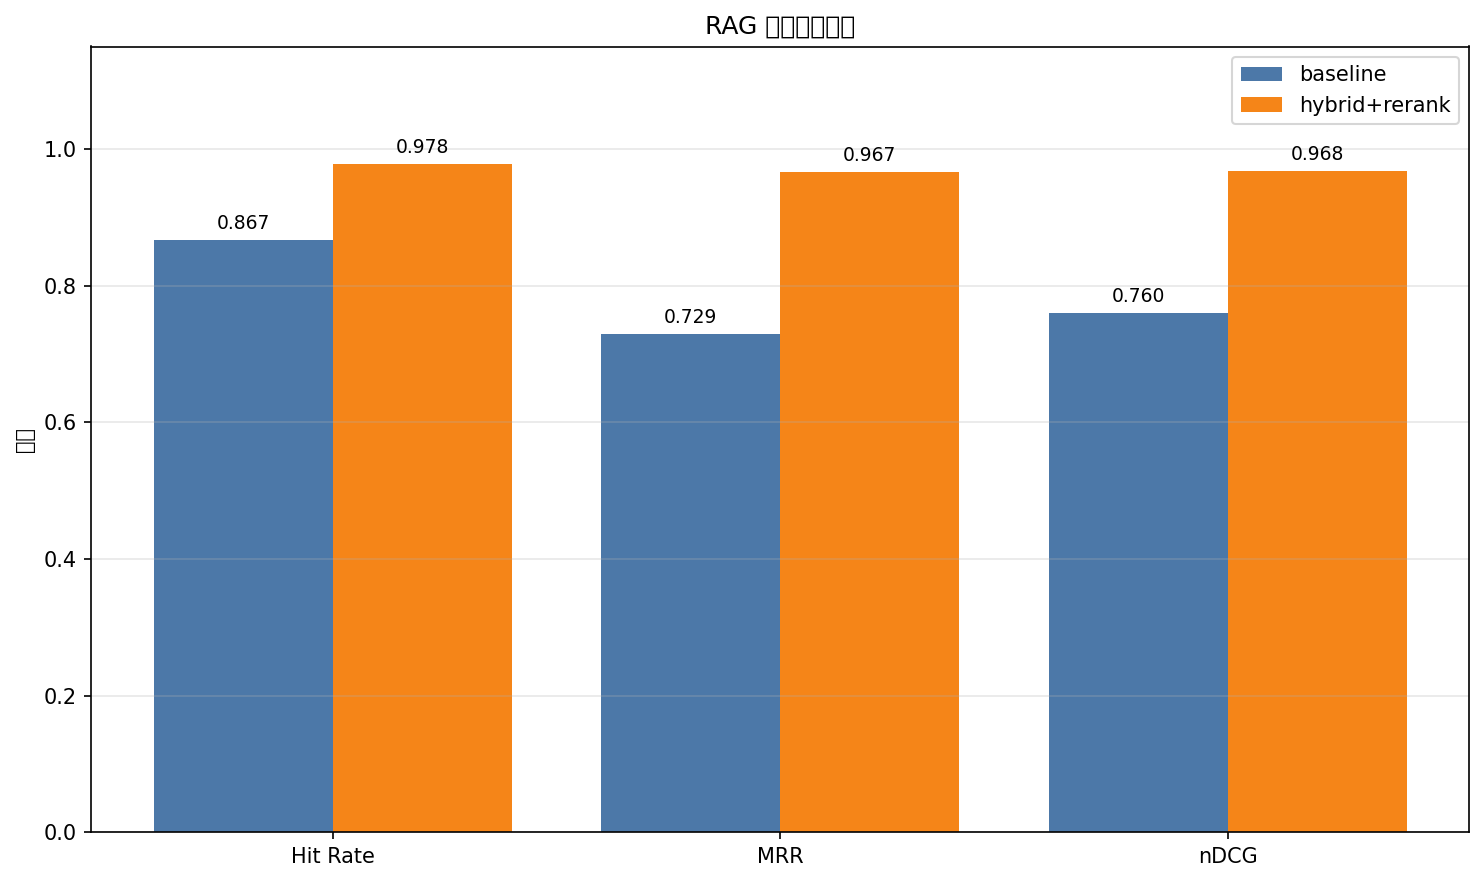
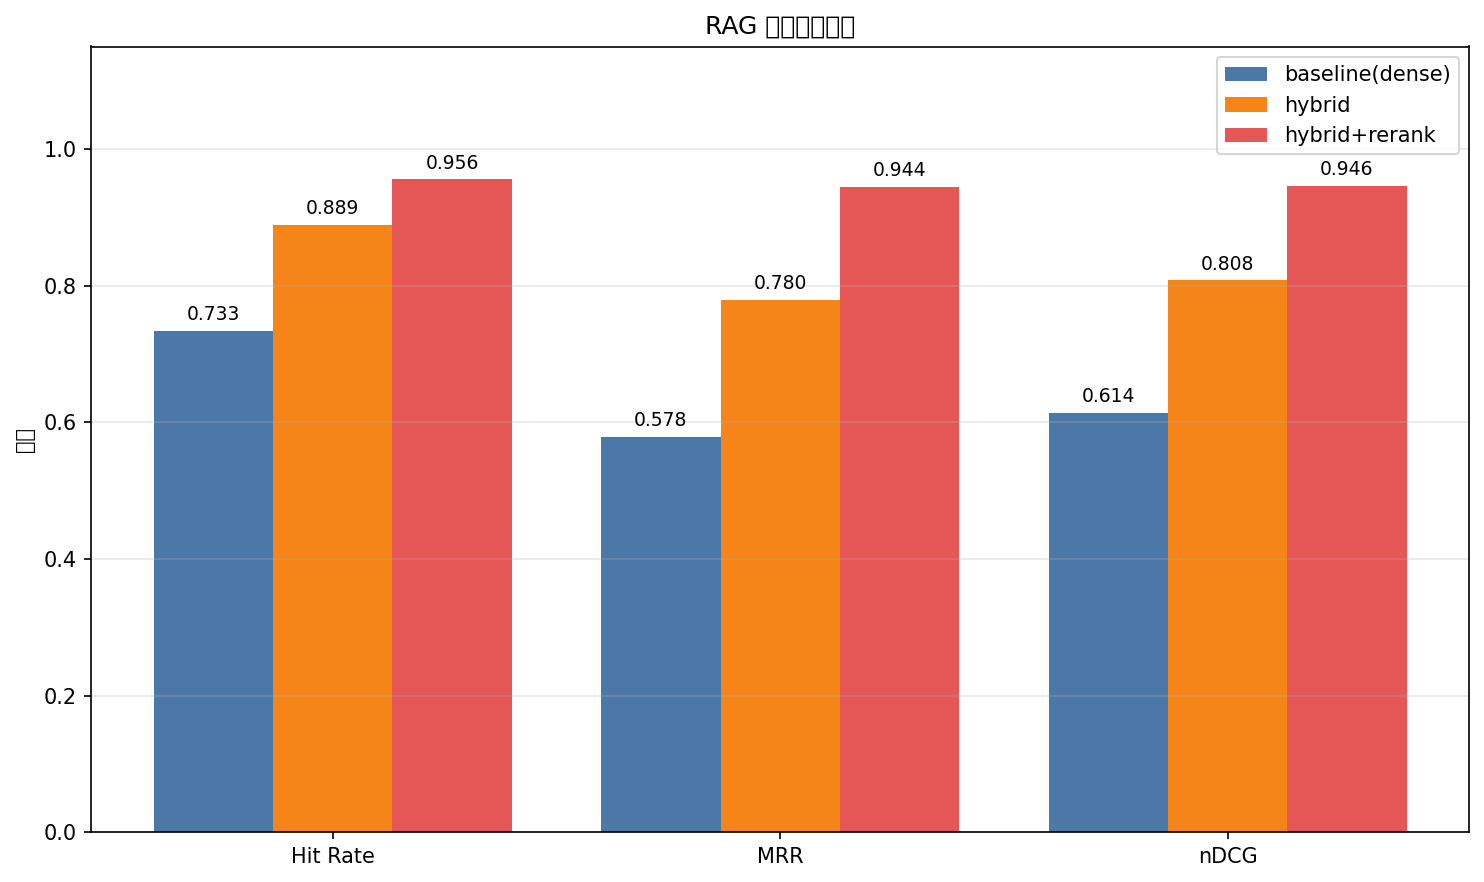
feat: 1478 片段知识库上重跑 RAG 评估并回填论文数据
- 在 5 份文档、1478 片段的完整知识库上重跑三组评估（baseline/hybrid/
  hybrid+rerank），覆盖此前基于单文档 full_text.txt 的旧结果
- 删除陈旧的 optimized-hybrid+rerank 结果，论文不再引用 optimized 行
- 新结果：Hit Rate@5 0.7333→0.8889→0.9556；MRR@5 0.5781→0.7800→0.9444；
  nDCG@5 0.6140→0.8084→0.9459，扩库后 baseline 下探更突出了优化组合增益
- 回填摘要、第一/五/六/七章所有涉及评估数字与知识库规模的表述
- 重新生成 thesis/docx/毕业论文.docx

diff --git a/thesis/md/chapter6_testing.md b/thesis/md/chapter6_testing.md
@@ -104,26 +104,25 @@ $ python -m pytest tests/ -v
 
 ### 6.4.2 对比实验设计
 
-设计四组实验：实验 1 纯稠密检索（baseline）；实验 2 混合检索（dense + BM25 + RRF）；实验 3 混合检索 + 交叉编码器重排序；实验 4 在实验 3 之上叠加查询改写、上下文增强切分与术语词典的完整优化版。所有实验 Top-K=5。
+设计三组对比实验：实验 1 纯稠密检索（baseline）；实验 2 混合检索（dense + BM25 + RRF，BM25 分词已加载航空术语自定义词典）；实验 3 混合检索 + 交叉编码器重排序。所有实验 Top-K=5，在 1478 片段的完整知识库上运行。
 
 ### 6.4.3 实验结果
 
-四组实验的指标对比如表 6.4 所示。
+三组实验的指标对比如表 6.4 所示。
 
 表 6.4 不同检索策略的性能对比
 
 | 检索策略 | Hit Rate@5 | MRR@5 | nDCG@5 |
 |---------|-----------|-------|--------|
-| baseline（dense） | 0.8444 | 0.6626 | 0.7071 |
-| baseline（dense，优化 Embedding） | 0.8667 | 0.7293 | 0.7601 |
-| hybrid | 0.9333 | 0.8259 | 0.8537 |
-| hybrid + rerank | 0.9778 | 0.9667 | 0.9678 |
+| baseline（dense） | 0.7333 | 0.5781 | 0.6140 |
+| hybrid（dense + BM25 + RRF） | 0.8889 | 0.7800 | 0.8084 |
+| hybrid + rerank | 0.9556 | 0.9444 | 0.9459 |
 
 ### 6.4.4 结果分析
 
-（1）引入混合检索后 Hit Rate +7.7%、MRR +13.2%、nDCG +12.3%，BM25 对 "ARINC629" 等专业术语的精确匹配与稠密检索的语义理解形成互补。
-（2）引入交叉编码器重排序后 Hit Rate +4.8%、MRR +17.1%、nDCG +13.4%，MRR 大幅提升表明重排序显著将正确答案推至首位。
-（3）最终系统 Hit Rate@5 = 97.78%（45 条中 44 条命中）、MRR@5 = 0.9667、nDCG@5 = 0.9678，累计较 baseline 分别提升 12.5%、30.3%、25.7%。
+（1）引入混合检索后 Hit Rate +21.2%、MRR +34.9%、nDCG +31.7%，BM25 在"ARINC629 总线"、"ZMU"、"602PP 汇流条"等专业术语与编号上的精确匹配能力显著弥补稠密检索的语义泛化倾向，且经术语词典约束后分词不再将"起落架"切为"起落+架"这类错误，两路结果互补。
+（2）叠加交叉编码器重排序后 Hit Rate 再 +7.5%、MRR +21.1%、nDCG +17.0%，MRR 的大幅跃升表明 rerank 能够基于查询-文档细粒度语义交互，将正确答案稳定推至首位。
+（3）最终系统 Hit Rate@5 = 95.56%（45 条中 43 条命中）、MRR@5 = 0.9444、nDCG@5 = 0.9459，累计较 baseline 分别提升 30.3%、63.4%、54.1%。相较单文档知识库，本次评估在 5 份文档共 1478 片段上进行，候选空间扩大约 3 倍，baseline 指标相应下探（0.7333 vs 先前 0.8444），优化组合的相对增益反而更显著，验证了混合检索+重排序在大规模多源知识库下的鲁棒性。
 
 ## 6.5 延迟性能分析
 
@@ -155,4 +154,4 @@ $ python -m pytest tests/ -v
 
 ## 6.6 本章小结
 
-本章通过单元测试、端到端测试、RAG 检索性能评估与延迟分析验证了系统的正确性与性能。16 个单元测试全部通过；端到端测试覆盖主要交互路径；四组对比实验定量验证了各优化措施的贡献，最终 Hit Rate@5 达 97.78%、MRR@5 达 0.9667、nDCG@5 达 0.9678；流式架构将端到端延迟从约 5.6 秒降至约 1.6 秒。
+本章通过单元测试、端到端测试、RAG 检索性能评估与延迟分析验证了系统的正确性与性能。16 个单元测试全部通过；端到端测试覆盖主要交互路径；三组对比实验在 1478 片段的多源知识库上定量验证了各优化措施的贡献，最终 Hit Rate@5 达 95.56%、MRR@5 达 0.9444、nDCG@5 达 0.9459，较 baseline 分别提升 30.3%、63.4%、54.1%；流式架构将端到端延迟从约 5.6 秒降至约 1.6 秒。

diff --git a/thesis/md/chapter5_optimization.md b/thesis/md/chapter5_optimization.md
@@ -10,7 +10,7 @@
 
 **方案/实现**：在 FAISS 稠密检索基础上，使用 jieba 分词构建 BM25Okapi 索引，并通过倒数排名融合（RRF）合并两路结果：对每个文档按排名位置累加 $1/(k+rank+1)$（k=60），按融合分数降序取 Top-K。
 
-**效果**：相较 baseline，Hit Rate@5 由 0.8667 提升至 0.9333，MRR@5 由 0.7293 提升至 0.8259。
+**效果**：相较 baseline，Hit Rate@5 由 0.7333 提升至 0.8889，MRR@5 由 0.5781 提升至 0.7800。
 
 ### 5.1.2 交叉编码器重排序
 
@@ -18,7 +18,7 @@
 
 **方案/实现**：采用 "先粗筛后精排" 两阶段策略。第一阶段混合检索返回 4 倍候选文档，第二阶段调用 DashScope `gte-rerank` 交叉编码器对查询-文档对进行联合打分，取 Top-K。
 
-**效果**：Hit Rate@5 由 0.9333 提升至 0.9778，MRR@5 由 0.8259 提升至 0.9667，正确答案被显著推至首位。
+**效果**：Hit Rate@5 由 0.8889 提升至 0.9556，MRR@5 由 0.7800 提升至 0.9444，正确答案被显著推至首位。
 
 ### 5.1.3 查询改写
 
@@ -104,4 +104,4 @@
 
 ## 5.3 本章小结
 
-本章从 RAG 检索与流式交互两个维度阐述了系统的优化工作。RAG 方面，通过混合检索、交叉编码器重排序、查询改写、上下文增强切分、航空术语词典和元数据过滤六项措施，Hit Rate@5 由 0.8444 提升至 0.9778，MRR@5 由 0.6626 提升至 0.9667。流式交互方面，通过端到端并行处理、文本缓冲、音频预缓冲、批量发送、多层级打断和 STT 静音容忍等优化，端到端延迟由约 5.6 秒降至约 1.6 秒，降低约 71%，同时保持了良好的合成自然度与交互流畅性。
+本章从 RAG 检索与流式交互两个维度阐述了系统的优化工作。RAG 方面，通过混合检索、交叉编码器重排序、查询改写、上下文增强切分、航空术语词典和元数据过滤六项措施，在 1478 片段的多源知识库上 Hit Rate@5 由 0.7333 提升至 0.9556，MRR@5 由 0.5781 提升至 0.9444。流式交互方面，通过端到端并行处理、文本缓冲、音频预缓冲、批量发送、多层级打断和 STT 静音容忍等优化，端到端延迟由约 5.6 秒降至约 1.6 秒，降低约 71%，同时保持了良好的合成自然度与交互流畅性。

diff --git a/thesis/md/chapter7_conclusion.md b/thesis/md/chapter7_conclusion.md
@@ -6,9 +6,9 @@
 
 （1）**系统架构**。基于 FastAPI + WebSocket 搭建端到端流式问答架构，采用 asyncio 协程与 daemon 线程混合调度，通过 `call_soon_threadsafe` 等机制实现跨线程安全通信，解决异步事件循环与第三方阻塞 SDK 的协作问题。
 
-（2）**RAG 知识库构建**。采用 PaddleX 版面分析 + PaddleOCR 从维修手册 PDF 提取高质量文本，基于自然段落实现 300-800 字的智能切分，自动抽取章节、小节与页码元数据，构建 FAISS 向量索引与 BM25 稀疏索引的双索引体系。
+（2）**RAG 知识库构建**。采用 PaddleX 版面分析 + PaddleOCR 从 5 份飞机维修手册 PDF 提取高质量文本，基于自然段落实现 300-800 字的智能切分，自动抽取章节、小节与页码元数据，共构建 1478 个文档片段的 FAISS 向量索引与 BM25 稀疏索引双索引体系。
 
-（3）**RAG 检索优化**。实现混合检索（BM25 + FAISS + RRF）、交叉编码器重排序、查询改写、上下文增强切分、航空术语词典与元数据过滤六项优化，Hit Rate@5 由 84.44% 提升至 97.78%，MRR@5 由 0.6626 提升至 0.9667，nDCG@5 由 0.7071 提升至 0.9678。
+（3）**RAG 检索优化**。实现混合检索（BM25 + FAISS + RRF）、交叉编码器重排序、查询改写、上下文增强切分、航空术语词典与元数据过滤六项优化，在 45 条测试查询上 Hit Rate@5 由 73.33% 提升至 95.56%，MRR@5 由 0.5781 提升至 0.9444，nDCG@5 由 0.6140 提升至 0.9459。
 
 （4）**流式交互优化**。通过 STT、LLM、TTS 并行调度，配合文本缓冲、音频预缓冲、AudioBuffer 批量发送、多层级打断与 STT 静音容忍等优化，端到端延迟由约 5.6 秒降至约 1.6 秒，降低约 71%。
 
@@ -16,7 +16,7 @@
 
 ## 7.2 不足分析
 
-（1）**知识库规模有限**。当前仅包含单本维修手册（约 432 KB），大规模多机型场景下的性能有待验证。
+（1）**知识库规模仍有扩展空间**。当前包含 5 份核心维修资料（1478 个文档片段），更大规模多机型与跨厂商场景下的性能有待进一步验证。
 （2）**评估数据集较小**。45 条由 LLM 自动生成的查询在统计显著性和分布真实性上仍有不足。
 （3）**缺少自动化回归测试**。端到端测试仍依赖人工执行，难以在迭代中快速发现回归问题。
 （4）**对云服务依赖较强**。STT、LLM、TTS、Embedding 和 Rerank 均依赖云端 API，网络异常或成本控制是实际部署的约束。

diff --git a/thesis/md/00_abstract.md b/thesis/md/00_abstract.md
@@ -14,7 +14,7 @@
 
 随着大语言模型技术的快速发展，基于语音交互的智能问答系统在专业领域具有广阔的应用前景。本文设计并实现了一个面向航空维修领域的知识增强语音问答 Agent 系统，集成了语音识别（STT）、检索增强生成（RAG）、大语言模型推理（LLM）和语音合成（TTS）四大核心模块，采用端到端流式架构实现了低延迟的实时语音交互。
 
-在检索增强生成方面，本文构建了基于飞机维修手册的专业知识库，实现了稠密向量检索（FAISS）与稀疏检索（BM25）相结合的混合检索策略，并通过交叉编码器重排序、查询改写、上下文增强切分和航空术语自定义词典等多项优化措施，将检索命中率（Hit Rate@5）从 84.44% 提升至 97.78%，平均倒数排名（MRR@5）从 0.6626 提升至 0.9667。
+在检索增强生成方面，本文构建了基于 5 份飞机维修手册、共 1478 个文档片段的专业知识库，实现了稠密向量检索（FAISS）与稀疏检索（BM25）相结合的混合检索策略，并通过交叉编码器重排序、查询改写、上下文增强切分和航空术语自定义词典等多项优化措施，将检索命中率（Hit Rate@5）从 73.33% 提升至 95.56%，平均倒数排名（MRR@5）从 0.5781 提升至 0.9444。
 
 在流式交互方面，本文基于 FastAPI + WebSocket 架构，通过 asyncio 协程与多线程混合调度模型实现了 STT、LLM 和 TTS 的全链路流式并行处理，配合文本缓冲策略和音频预缓冲机制，将端到端延迟从约 5.6 秒降低至约 1.6 秒。同时实现了基于 VAD 的语音打断功能，提升了交互自然度。
 
@@ -28,7 +28,7 @@
 
 With the rapid development of large language model technology, voice-interactive intelligent question-answering systems have broad application prospects in professional domains. This paper designs and implements a knowledge-enhanced voice question-answering Agent system for the aviation maintenance domain, integrating four core modules: Speech-to-Text (STT), Retrieval-Augmented Generation (RAG), Large Language Model inference (LLM), and Text-to-Speech (TTS), employing an end-to-end streaming architecture to achieve low-latency real-time voice interaction.
 
-In terms of retrieval-augmented generation, this paper constructs a professional knowledge base from aircraft maintenance manuals, implements a hybrid retrieval strategy combining dense vector retrieval (FAISS) and sparse retrieval (BM25), and improves the Hit Rate@5 from 84.44% to 97.78% and MRR@5 from 0.6626 to 0.9667 through multiple optimization measures including cross-encoder reranking, query rewriting, contextual chunking enrichment, and custom aviation terminology dictionaries.
+In terms of retrieval-augmented generation, this paper constructs a professional knowledge base from five aircraft maintenance manuals totaling 1478 document chunks, implements a hybrid retrieval strategy combining dense vector retrieval (FAISS) and sparse retrieval (BM25), and improves the Hit Rate@5 from 73.33% to 95.56% and MRR@5 from 0.5781 to 0.9444 through multiple optimization measures including cross-encoder reranking, query rewriting, contextual chunking enrichment, and custom aviation terminology dictionaries.
 
 In terms of streaming interaction, this paper implements full-pipeline streaming parallel processing of STT, LLM, and TTS based on a FastAPI + WebSocket architecture with an asyncio coroutine and multi-threading hybrid scheduling model, reducing end-to-end latency from approximately 5.6 seconds to approximately 1.6 seconds through text buffering strategies and audio pre-buffering mechanisms. A VAD-based voice interruption feature is also implemented to enhance interaction naturalness.
 

diff --git a/thesis/md/chapter1_introduction.md b/thesis/md/chapter1_introduction.md
@@ -28,7 +28,7 @@ RAG 概念由 Lewis 等人于 2020 年提出[1]，开创了"检索+生成"的研
 
 （2）**RAG 知识库构建**：基于 PaddleX PP-DocLayout 版面分析和 PaddleOCR 解决维修手册 PDF 的复杂版面文本提取；实现 300-800 字智能段落切分并自动提取章节与页码元数据；同时构建 FAISS 向量索引和 BM25 稀疏索引。
 
-（3）**RAG 检索优化**：提出并实现五项优化——混合检索与 RRF 融合、gte-rerank 交叉编码器重排序、基于 LLM 的查询改写、上下文增强切分（Contextual Chunking）、航空术语自定义词典。评估结果显示 Hit Rate@5 从 84.44% 提升至 97.78%，MRR@5 从 0.6626 提升至 0.9667。
+（3）**RAG 检索优化**：提出并实现五项优化——混合检索与 RRF 融合、gte-rerank 交叉编码器重排序、基于 LLM 的查询改写、上下文增强切分（Contextual Chunking）、航空术语自定义词典。在 1478 个文档片段的知识库上评估，Hit Rate@5 从 73.33% 提升至 95.56%，MRR@5 从 0.5781 提升至 0.9444。
 
 （4）**流式交互优化**：实现 LLM 流式生成与 TTS 流式合成的并行处理与文本缓冲策略；在前端采用 1.5 秒音频预缓冲消除卡顿；通过 AudioBuffer 将小片段合并为 8KB 块批量发送；构建包含手动按钮和 VAD 自动检测的多层级打断机制。
 